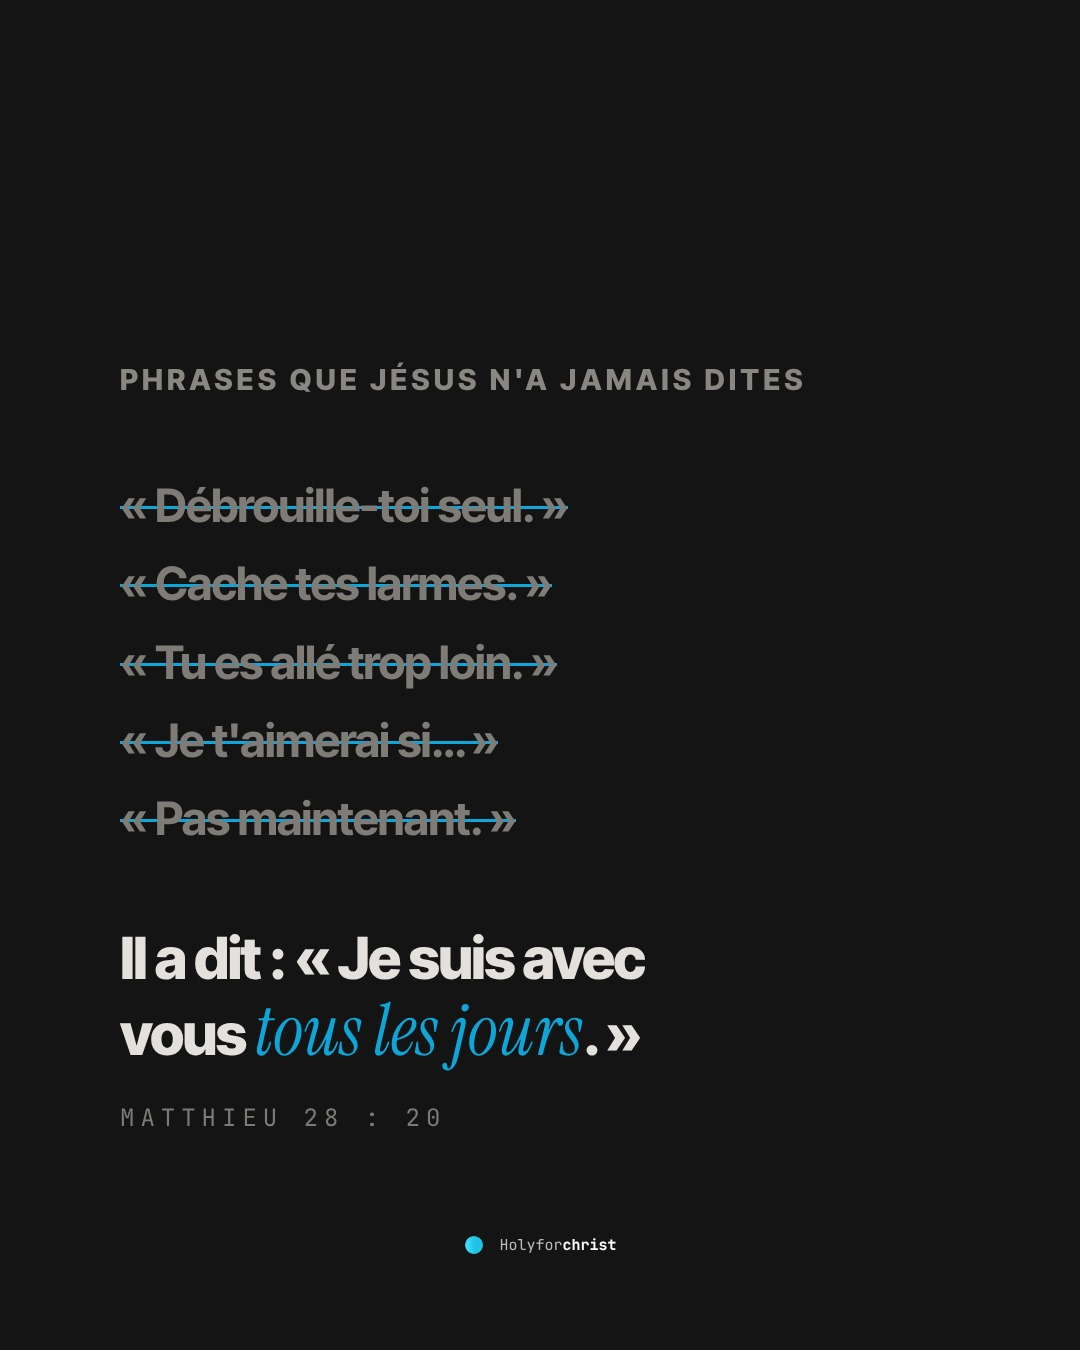
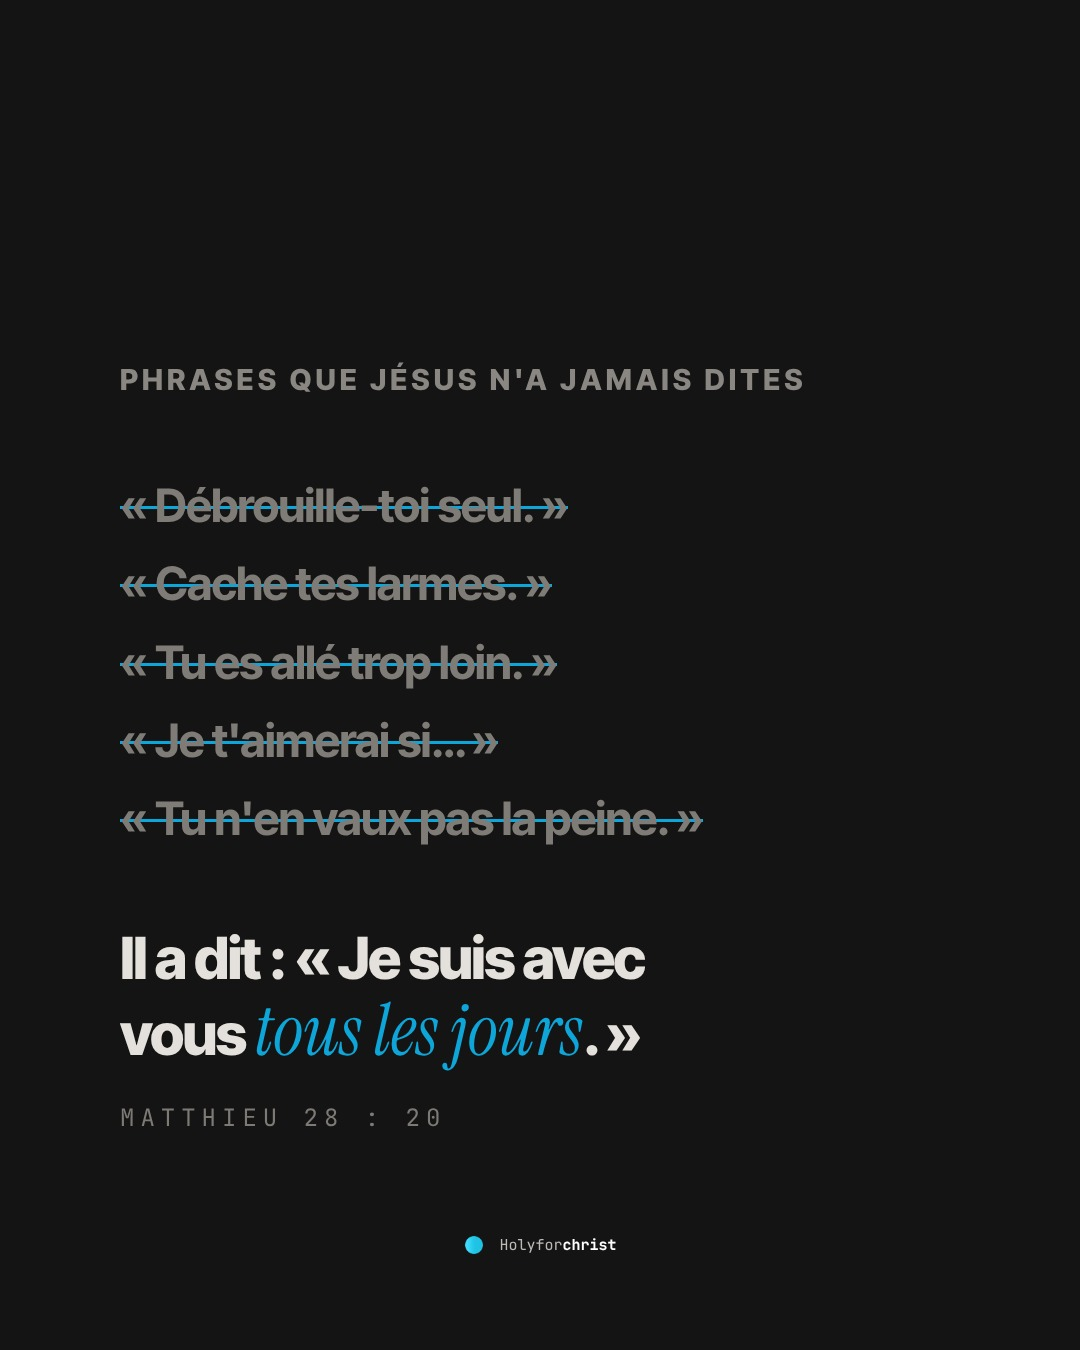
Replace « Pas maintenant » in the Saturday Holy post
Jesus did say his hour had not yet come (Jean 2:4), so the line did not fit
« phrases que Jésus n'a jamais dites ».

Claude-Session: https://claude.ai/code/session_01CHvGS8RJVXEUEUzwJEWhyw

Changed region(s): [[0.1222, 0.5911, 0.6417, 0.6222]]

diff --git a/posts/2026-11-holyforchrist-semaine3/gen.js b/posts/2026-11-holyforchrist-semaine3/gen.js
@@ -83,7 +83,7 @@ ${god('Jamais. Lève-toi, on recommence ensemble. 🤍')}
 sam21: () => page(`<div style="position:absolute;left:120px;right:80px;top:362px">
 <div class="lab">Phrases que Jésus n'a jamais dites</div>
 <div style="margin-top:84px;display:flex;flex-direction:column;gap:30px">
-${['« Débrouille-toi seul. »','« Cache tes larmes. »','« Tu es allé trop loin. »','« Je t\'aimerai si… »','« Pas maintenant. »'].map(t=>`<div style="font-weight:700;font-size:46px;letter-spacing:-1px;color:#7f7c77;line-height:1.05"><span style="background:linear-gradient(#0ea5d9,#0ea5d9) 0 55%/100% 3px no-repeat">${t}</span></div>`).join('')}
+${['« Débrouille-toi seul. »','« Cache tes larmes. »','« Tu es allé trop loin. »','« Je t\'aimerai si… »','« Tu n\'en vaux pas la peine. »'].map(t=>`<div style="font-weight:700;font-size:46px;letter-spacing:-1px;color:#7f7c77;line-height:1.05"><span style="background:linear-gradient(#0ea5d9,#0ea5d9) 0 55%/100% 3px no-repeat">${t}</span></div>`).join('')}
 </div>
 <div style="margin-top:84px;font-weight:800;font-size:58px;letter-spacing:-2px;line-height:1.12;color:#e4e1dc">Il a dit : « Je suis avec<br>vous <em style="font-size:72px">tous les jours</em>. »</div>
 <div class="ref" style="margin-top:30px;font-size:24px">MATTHIEU 28 : 20</div></div>`),
